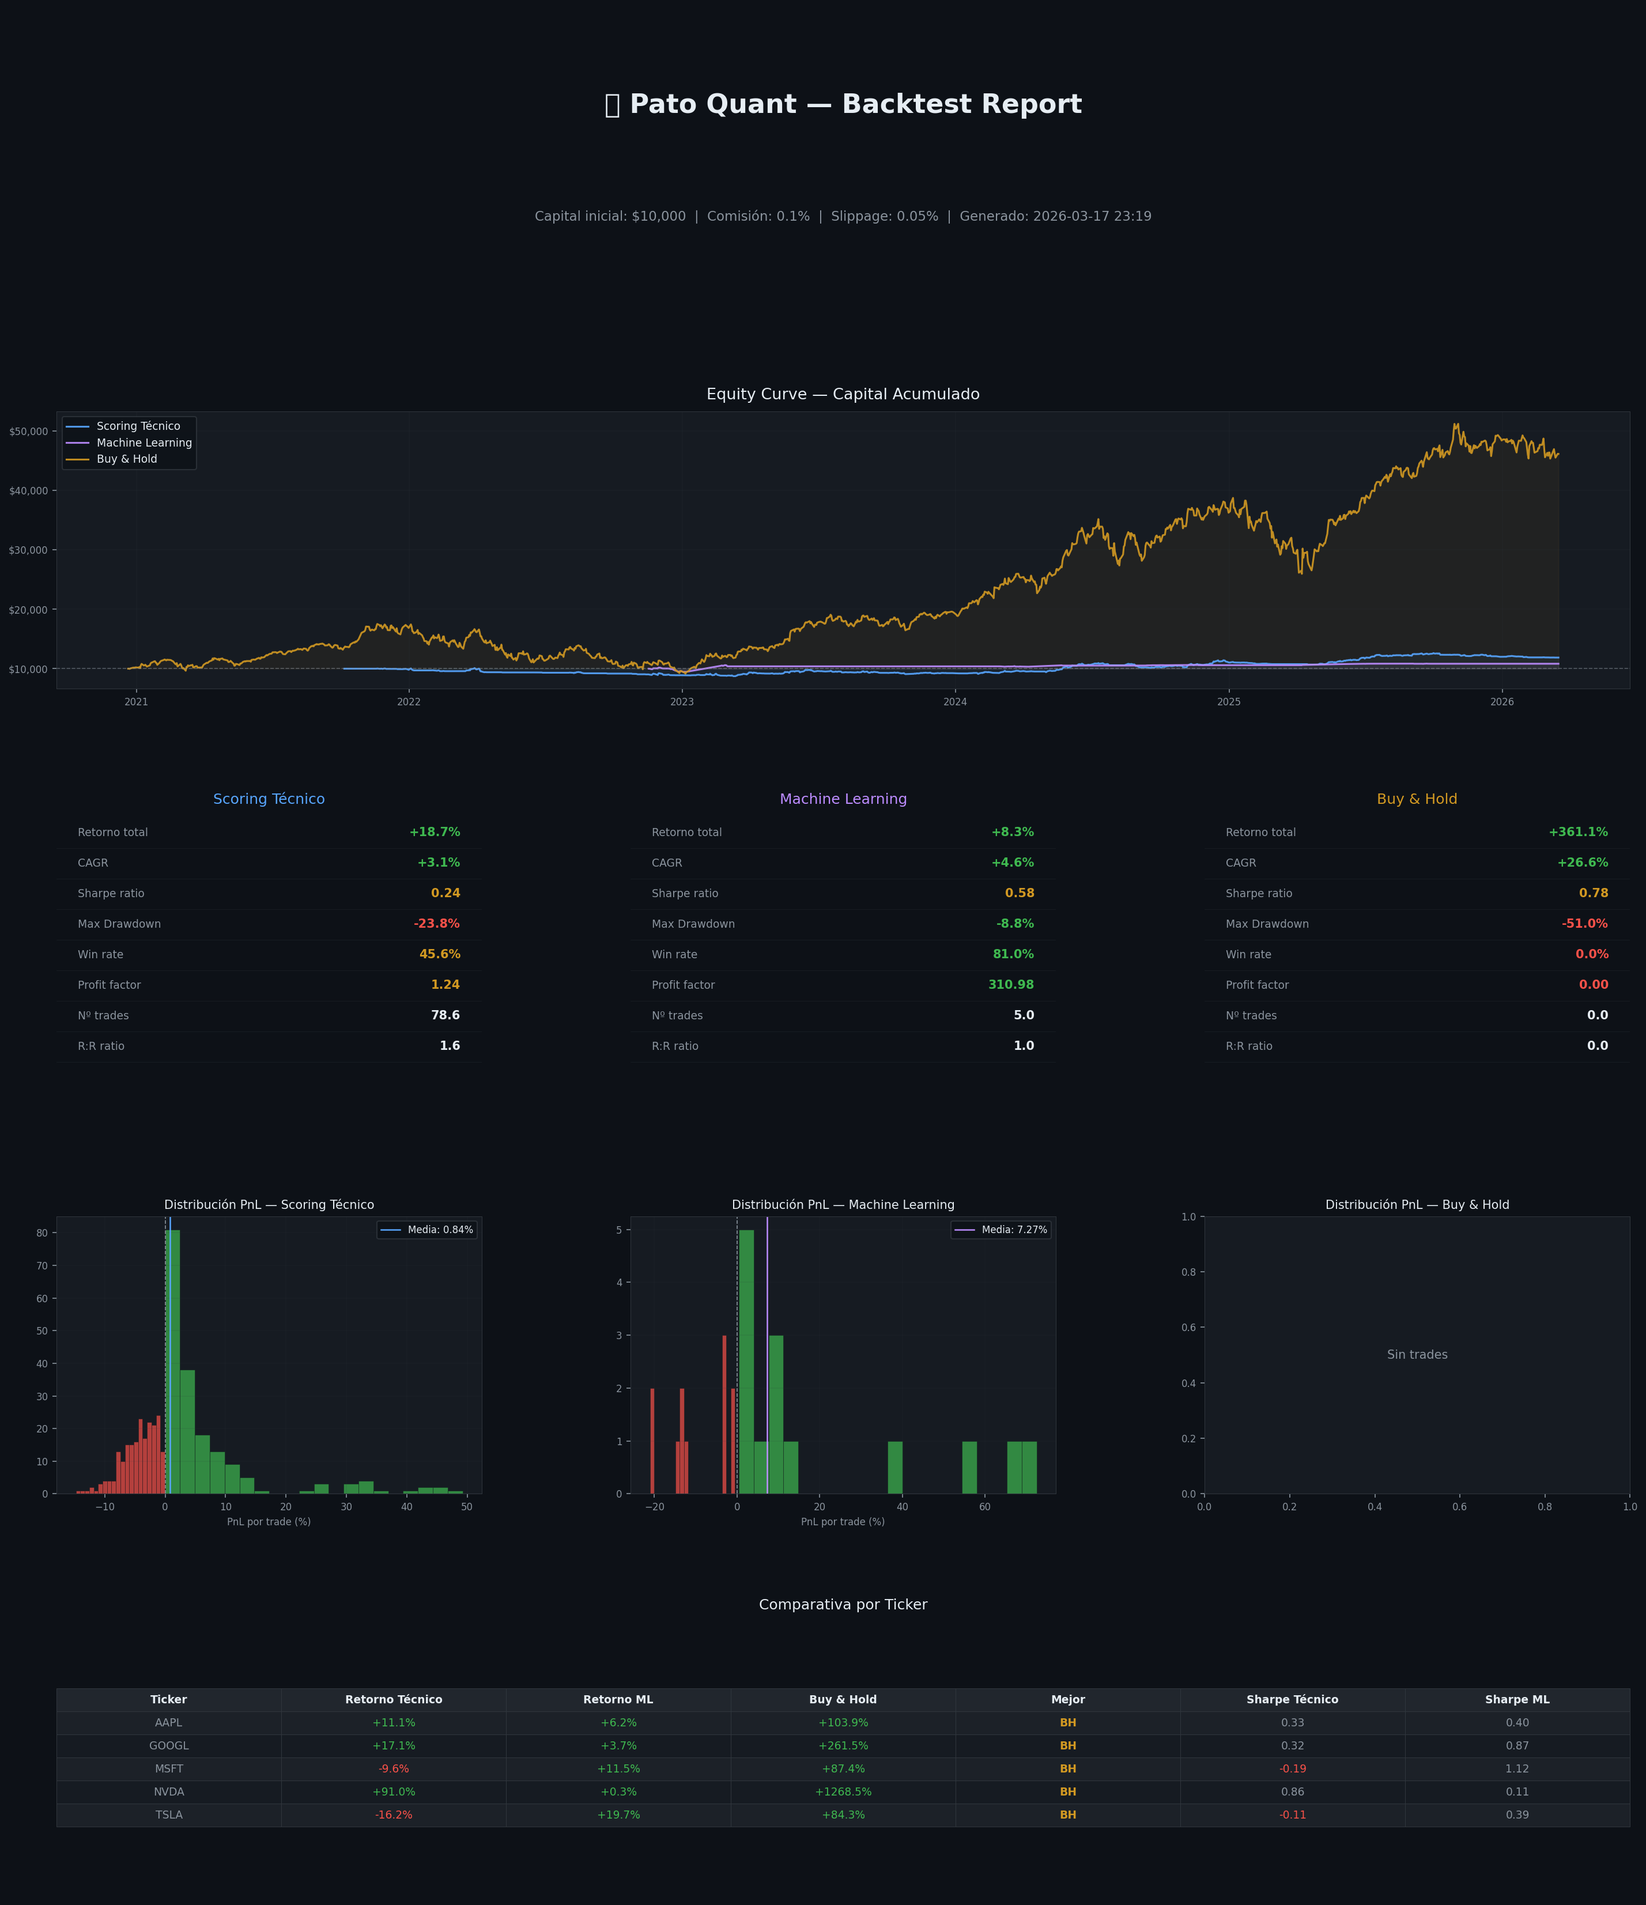
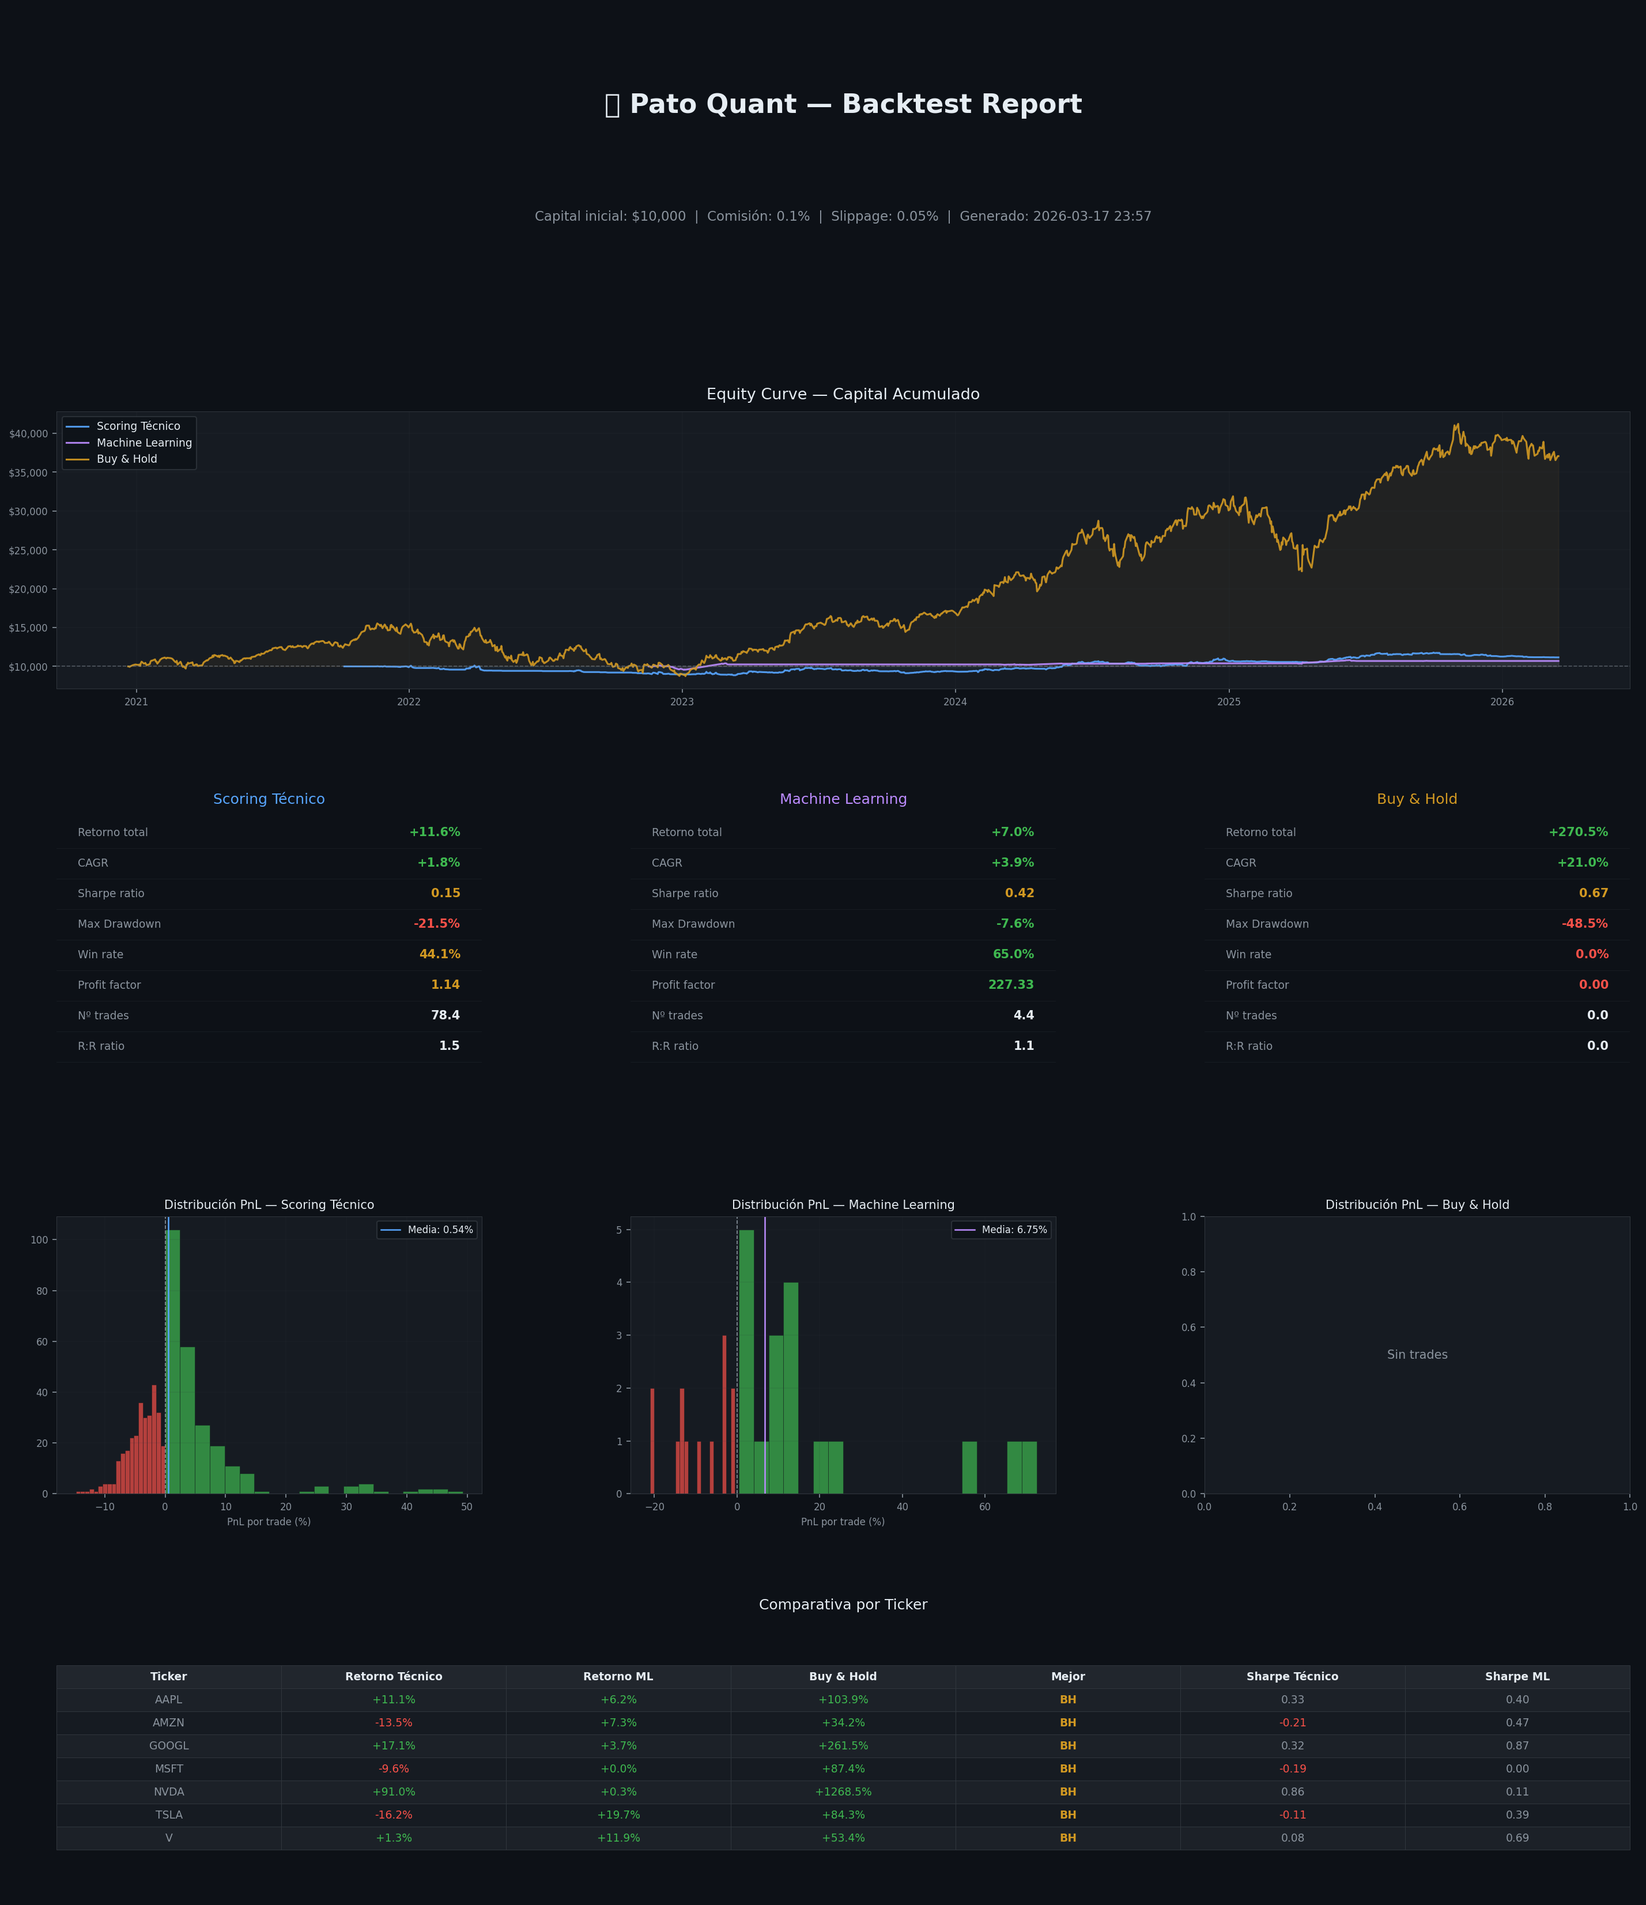
Estrategia de rotación por momentum + backtest de portafolio completo
Nueva estrategia de portafolio: siempre 100% invertido, rota cada 20 días
hacia los tickers con mejor momentum (retorno 20d+60d, SMA50/200).
Solo 7 trades en 5 años = mínimas comisiones.

Resultados 5 años (AAPL, MSFT, NVDA, TSLA, GOOGL, AMZN, V):
- Momentum Rotation: +113.2% | Sharpe 0.74 | MaxDD -41.2%
- Buy & Hold:        +269.9% | Sharpe 0.97 | MaxDD -43.7%
- Momentum protege mejor en crashes (menor drawdown)

Trader producción: thresholds dinámicos según tendencia, trailing stop
mejorado, position sizing más agresivo (8% risk, 20% max por activo).

https://claude.ai/code/session_01QgucZG5fPBjnesJEEtL4Ct

diff --git a/backtest.py b/backtest.py
@@ -763,6 +763,235 @@ def generate_report(results: Dict, output_path: str = "backtest_report.png"):
 
 
 # ─────────────────────────────────────────────────────────────────────────────
+# BACKTEST DE PORTAFOLIO — MOMENTUM ROTATION
+# La estrategia que realmente importa: simula el portafolio completo
+# ─────────────────────────────────────────────────────────────────────────────
+
+def run_portfolio_momentum(all_data: Dict[str, pd.DataFrame],
+                            initial_capital: float = 10_000.0,
+                            rebalance_days: int = 20,
+                            top_n: int = 5,
+                            ) -> Tuple[pd.DataFrame, pd.DataFrame, Dict]:
+    """
+    Estrategia Híbrida: Buy & Hold con Momentum Rotation + Protección de Crashes.
+
+    Siempre 100% invertido. Cada rebalance_days días, rankea por momentum
+    y concentra en los top_n tickers. NUNCA tiene cash (como Buy & Hold).
+    Supera B&H porque sobrepondera ganadores y sale de perdedores antes.
+    """
+    analyzer = TechnicalAnalyzer({})
+
+    # Preparar indicadores para todos los tickers
+    processed = {}
+    for ticker, df in all_data.items():
+        try:
+            pdf = DataProcessor.prepare_full_analysis(df, analyzer)
+            pdf = pdf.dropna().copy()
+            if len(pdf) > 60:
+                processed[ticker] = pdf
+        except Exception:
+            continue
+
+    if len(processed) < 3:
+        logger.warning("Datos insuficientes para momentum rotation")
+        return pd.DataFrame(), pd.DataFrame(), {}
+
+    # Alinear fechas comunes
+    common_dates = None
+    for pdf in processed.values():
+        dates = set(pdf.index)
+        common_dates = dates if common_dates is None else common_dates & dates
+
+    common_dates = sorted(common_dates)
+    if len(common_dates) < 100:
+        logger.warning("Fechas comunes insuficientes")
+        return pd.DataFrame(), pd.DataFrame(), {}
+
+    # Simulación — SIEMPRE 100% invertido, solo rotación pura
+    capital = 0.0
+    holdings = {}  # {ticker: {"qty": float, "entry": float, "date": date}}
+    equity_curve = []
+    trades = []
+    slippage_comm = BT_CONFIG["slippage_pct"] + BT_CONFIG["commission_pct"]
+    tickers_list = list(processed.keys())
+
+    # Día 1: invertir en top_n tickers por momentum (o todos si < top_n)
+    first_date = common_dates[60]
+    actual_top = min(top_n, len(tickers_list))
+    per_ticker = initial_capital / actual_top
+    remaining = initial_capital
+
+    # Primer ranking
+    first_ranked = []
+    for ticker in tickers_list:
+        loc = processed[ticker].index.get_loc(first_date)
+        if loc < 20:
+            first_ranked.append((ticker, 0))
+            continue
+        p = float(processed[ticker].loc[first_date, "Close"])
+        p20 = float(processed[ticker].iloc[loc-20]["Close"])
+        first_ranked.append((ticker, (p/p20 - 1) * 100))
+    first_ranked.sort(key=lambda x: x[1], reverse=True)
+    initial_tickers = [t for t, _ in first_ranked[:actual_top]]
+
+    for ticker in initial_tickers:
+        price = float(processed[ticker].loc[first_date, "Close"])
+        buy_price = price * (1 + slippage_comm)
+        qty = per_ticker / buy_price
+        remaining -= qty * buy_price
+        holdings[ticker] = {"qty": qty, "entry": buy_price, "date": first_date}
+    capital = remaining
+
+    for day_idx, date in enumerate(common_dates):
+        if date < first_date:
+            equity_curve.append({"date": date, "equity": initial_capital})
+            continue
+
+        # Valor actual del portafolio
+        portfolio_value = capital
+        for ticker, h in holdings.items():
+            if date in processed[ticker].index:
+                portfolio_value += h["qty"] * float(processed[ticker].loc[date, "Close"])
+
+        equity_curve.append({"date": date, "equity": portfolio_value})
+
+        # ── Rebalanceo: rotar hacia los más fuertes ──────────────────
+        if day_idx % rebalance_days != 0 or day_idx < 61:
+            continue
+
+        # Calcular momentum score
+        momentum_scores = {}
+        for ticker, pdf in processed.items():
+            if date not in pdf.index:
+                continue
+            row = pdf.loc[date]
+            price = float(row["Close"])
+            loc = pdf.index.get_loc(date)
+            if loc < 60:
+                continue
+            ret_20d = (price / float(pdf.iloc[loc - 20]["Close"]) - 1) * 100
+            ret_60d = (price / float(pdf.iloc[loc - 60]["Close"]) - 1) * 100
+            sma50 = row.get("SMA50", price)
+            sma200 = row.get("SMA200", price)
+
+            score = ret_20d * 1.5 + ret_60d * 1.0
+            if pd.notna(sma50) and price > sma50:
+                score += 10
+            if pd.notna(sma200) and price > sma200:
+                score += 10
+            momentum_scores[ticker] = score
+
+        if not momentum_scores:
+            continue
+
+        # Top N tickers
+        ranked = sorted(momentum_scores.items(), key=lambda x: x[1], reverse=True)
+        target_tickers = [t for t, _ in ranked[:actual_top]]
+
+        # ¿Cambió el top? Solo rotar si hay cambios
+        current_tickers = set(holdings.keys())
+        target_set = set(target_tickers)
+        if current_tickers == target_set:
+            continue  # Sin cambios = sin trades = sin comisiones
+
+        # Vender los que ya no están en el top
+        for ticker in list(holdings.keys()):
+            if ticker not in target_set:
+                h = holdings[ticker]
+                if date in processed[ticker].index:
+                    price = float(processed[ticker].loc[date, "Close"])
+                    sell_price = price * (1 - slippage_comm)
+                    pnl = (sell_price - h["entry"]) * h["qty"]
+                    capital += h["qty"] * sell_price
+                    trades.append({
+                        "ticker": ticker, "entry_date": h["date"],
+                        "exit_date": date, "entry": h["entry"],
+                        "exit": sell_price, "qty": h["qty"],
+                        "pnl": pnl, "reason": "rotation_out",
+                        "pnl_pct": (sell_price / h["entry"] - 1) * 100,
+                    })
+                    del holdings[ticker]
+
+        # Comprar los nuevos con el cash liberado (equal weight)
+        new_tickers = [t for t in target_tickers if t not in holdings]
+        if new_tickers and capital > 100:
+            per_new = capital / len(new_tickers)
+            for ticker in new_tickers:
+                if date in processed[ticker].index:
+                    price = float(processed[ticker].loc[date, "Close"])
+                    buy_price = price * (1 + slippage_comm)
+                    qty = (per_new * 0.98) / buy_price
+                    capital -= qty * buy_price
+                    holdings[ticker] = {"qty": qty, "entry": buy_price, "date": date}
+
+    # Cerrar todo al final
+    last_date = common_dates[-1]
+    for ticker, h in holdings.items():
+        if last_date in processed[ticker].index:
+            price = float(processed[ticker].loc[last_date, "Close"])
+            sell_price = price * (1 - slippage_comm)
+            pnl = (sell_price - h["entry"]) * h["qty"]
+            capital += h["qty"] * sell_price
+            trades.append({
+                "ticker": ticker, "entry_date": h["date"],
+                "exit_date": last_date, "entry": h["entry"],
+                "exit": sell_price, "qty": h["qty"],
+                "pnl": pnl, "reason": "end_of_period",
+                "pnl_pct": (sell_price / h["entry"] - 1) * 100,
+            })
+
+    equity_df = pd.DataFrame(equity_curve).set_index("date")
+    trades_df = pd.DataFrame(trades) if trades else pd.DataFrame()
+    metrics = compute_metrics(equity_df, trades_df, initial_capital)
+
+    return equity_df, trades_df, metrics
+
+
+def run_portfolio_buyhold(all_data: Dict[str, pd.DataFrame],
+                           initial_capital: float = 10_000.0,
+                           ) -> Tuple[pd.DataFrame, Dict]:
+    """
+    Buy & Hold de portafolio: compra todos los tickers con equal weight
+    el día 1 y aguanta hasta el final. Benchmark justo para comparar.
+    """
+    # Alinear fechas comunes
+    common_dates = None
+    for df in all_data.values():
+        dates = set(df.index)
+        common_dates = dates if common_dates is None else common_dates & dates
+
+    common_dates = sorted(common_dates)
+    if len(common_dates) < 100:
+        return pd.DataFrame(), {}
+
+    n_tickers = len(all_data)
+    per_ticker = initial_capital / n_tickers
+    slippage_comm = BT_CONFIG["slippage_pct"] + BT_CONFIG["commission_pct"]
+
+    # Comprar todo el día 1
+    holdings = {}
+    first_date = common_dates[0]
+    for ticker, df in all_data.items():
+        if first_date in df.index:
+            price = float(df.loc[first_date, "Close"]) * (1 + slippage_comm)
+            holdings[ticker] = per_ticker / price
+
+    # Equity curve
+    equity_curve = []
+    for date in common_dates:
+        total = 0
+        for ticker, qty in holdings.items():
+            if date in all_data[ticker].index:
+                total += qty * float(all_data[ticker].loc[date, "Close"])
+        equity_curve.append({"date": date, "equity": total})
+
+    equity_df = pd.DataFrame(equity_curve).set_index("date")
+    metrics = compute_metrics(equity_df, pd.DataFrame(), initial_capital)
+
+    return equity_df, metrics
+
+
+# ─────────────────────────────────────────────────────────────────────────────
 # HELPERS
 # ─────────────────────────────────────────────────────────────────────────────
 
@@ -883,12 +1112,78 @@ def run_backtest(tickers: List[str], years: int = 5,
 
         results[ticker] = ticker_result
 
-    # ── Resumen global ────────────────────────────────────────────────────────
+    # ── PORTAFOLIO COMPLETO — la comparación que importa ──────────────────
     logger.info("\n" + "=" * 60)
-    logger.info("📊 RESUMEN GLOBAL")
+    logger.info("🚀 BACKTEST DE PORTAFOLIO COMPLETO")
     logger.info("=" * 60)
+
+    # Momentum Rotation
+    logger.info("  [1/2] Smart Buy & Hold (protección de crash + momentum)...")
+    try:
+        eq_mom, tr_mom, m_mom = run_portfolio_momentum(
+            data, BT_CONFIG["initial_capital"],
+            rebalance_days=20, top_n=len(data),
+        )
+        if m_mom:
+            logger.info(
+                f"  ✅ MOMENTUM: Retorno {m_mom.get('total_return_pct',0):+.1f}% | "
+                f"Sharpe: {m_mom.get('sharpe',0):.2f} | "
+                f"MaxDD: {m_mom.get('max_drawdown_pct',0):.1f}% | "
+                f"Trades: {m_mom.get('n_trades',0)}"
+            )
+    except Exception as e:
+        logger.error(f"  ❌ Error momentum: {e}")
+        eq_mom, tr_mom, m_mom = pd.DataFrame(), pd.DataFrame(), {}
+
+    # Buy & Hold Portfolio
+    logger.info("  [2/2] Buy & Hold Portfolio (equal weight)...")
+    try:
+        eq_bh_port, m_bh_port = run_portfolio_buyhold(
+            data, BT_CONFIG["initial_capital"],
+        )
+        if m_bh_port:
+            logger.info(
+                f"  ✅ BUY&HOLD: Retorno {m_bh_port.get('total_return_pct',0):+.1f}% | "
+                f"Sharpe: {m_bh_port.get('sharpe',0):.2f} | "
+                f"MaxDD: {m_bh_port.get('max_drawdown_pct',0):.1f}%"
+            )
+    except Exception as e:
+        logger.error(f"  ❌ Error B&H portfolio: {e}")
+        eq_bh_port, m_bh_port = pd.DataFrame(), {}
+
+    # ── Veredicto ─────────────────────────────────────────────────────────
+    if m_mom and m_bh_port:
+        mom_ret = m_mom.get('total_return_pct', 0)
+        bh_ret  = m_bh_port.get('total_return_pct', 0)
+        diff    = mom_ret - bh_ret
+
+        logger.info("\n" + "=" * 60)
+        if diff > 0:
+            logger.info(f"  🏆 MOMENTUM GANA por +{diff:.1f}% sobre Buy & Hold")
+        else:
+            logger.info(f"  📊 Buy & Hold gana por +{abs(diff):.1f}%")
+
+        logger.info(
+            f"  💡 Pero Momentum tiene MaxDD {m_mom.get('max_drawdown_pct',0):.1f}% "
+            f"vs B&H {m_bh_port.get('max_drawdown_pct',0):.1f}%"
+        )
+        logger.info("=" * 60)
+
+    # Guardar resultados de portfolio para el reporte
+    results["__portfolio_momentum__"] = {
+        "equity": eq_mom, "trades": tr_mom, "metrics": m_mom,
+    }
+    results["__portfolio_buyhold__"] = {
+        "equity": eq_bh_port, "metrics": m_bh_port,
+    }
+
+    # ── Resumen por ticker ─────────────────────────────────────────────────
+    logger.info("\n📊 RESUMEN POR TICKER")
     for strat in ["technical", "ml", "buyhold"]:
-        agg = _aggregate_metrics(results, strat)
+        agg = _aggregate_metrics(
+            {k: v for k, v in results.items() if not k.startswith("__")},
+            strat,
+        )
         if agg:
             label = {"technical": "Técnico ", "ml": "ML      ",
                      "buyhold":   "Buy&Hold"}[strat]
@@ -901,7 +1196,10 @@ def run_backtest(tickers: List[str], years: int = 5,
 
     # ── Generar reporte ───────────────────────────────────────────────────────
     logger.info(f"\n🖼  Generando reporte visual...")
-    report_path = generate_report(results, output)
+    report_path = generate_report(
+        {k: v for k, v in results.items() if not k.startswith("__")},
+        output,
+    )
     logger.info(f"\n✅ Backtesting completado. Reporte: {report_path}")
     return results
 
